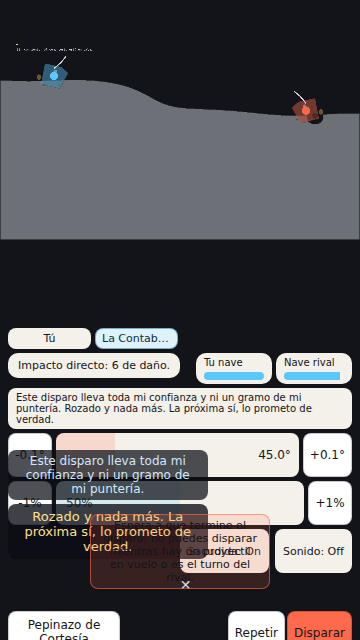
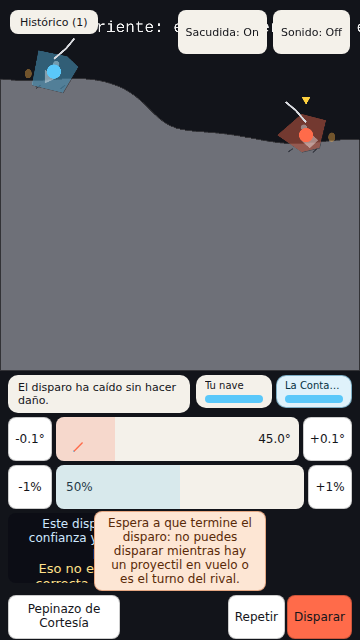
fix(hud-canales): broma y roce como hermanos flex reales, aviso fuera de su hueco (#96)
El gatekeeper midió que panel-bromas y panel-roce compartían el mismo
origen (x=8, y=513) y se solapaban un 57%/74%: BromaHUD se pintaba como
overlay position:absolute sobre TODA fila-avisos en vez de repartir el
ancho con RoceHUD. Convertirlos en hijos directos de un mismo flex-row
hace que el propio algoritmo de flexbox les dé cajas que nunca se tocan.

aviso-accion-imposible tapaba además un 66% de panel-bromas: crecía hacia
arriba desde fila-armas (bottom:100% sin hueco propio) e invadía el mismo
espacio. Ahora es una fila más de flujo normal entre fila-avisos y
fila-armas -- el coste es que fila-armas se desplaza mientras el aviso
está visible, preferible a tapar la broma (que es lo que pide hud-canales-1).

El guardia de hud-canales-4 comparaba solape solo contra una lista fija de
vecinos (toggles que ya son fixed y nunca pueden solaparse), por eso salía
en verde sin detectar nada de esto. Reescrito para comparar cada panel
visible contra TODOS los demás paneles visibles en el mismo instante.

diff --git a/src/juego/hud/ControlHUD.tsx b/src/juego/hud/ControlHUD.tsx
@@ -499,17 +499,23 @@ export function ControlHUD() {
         </button>
       </div>
 
-      {/* fila-avisos: hueco reservado de roce (izquierda) -- lay-4 pide el
-          hueco reservado literalmente: altura FIJA (no mínima) y con scroll
-          propio si una frase larga no cabe, para que quitar la broma nunca
-          mueva el resto de controles y para que un texto largo jamás empuje
-          ni solape la fila de abajo (lay-3). flexShrink:0 es el propio
-          arreglo de lay-3: sin él, esta fila era la ÚNICA con
-          overflowY:auto (mínimo automático 0 según CSS Flexbox §7.1.4), así
-          que el algoritmo de flex-shrink la comprimía a ella sola para
-          compensar el déficit de alto de la consola en 360x640. */}
-      <div style={{ position: "relative" }}>
+      {/* fila-avisos: roce (izquierda) y broma (derecha) como hermanos flex
+          REALES de la misma fila -- hud-canales (segunda corrección): la
+          versión anterior superponía panel-bromas como overlay
+          position:absolute sobre TODA esta fila (inset:"0 0 8px 0"), así que
+          su caja coincidía con la de panel-roce en vez de repartirse el
+          ancho con él (hallazgo del gatekeeper: mismo origen x=8,y=513,
+          57%/74% de solape). Con los dos como hijos de un flex-row, el
+          propio algoritmo de flexbox les da cajas que nunca se tocan --
+          roce (flex:"1 1 0") ocupa lo que broma deja libre, nunca al revés.
+          altura FIJA (no mínima) para que quitar la broma nunca mueva el
+          resto de controles (lay-4); flexShrink:0 es el propio arreglo de
+          lay-3: sin él, esta fila era la ÚNICA con overflowY:auto (mínimo
+          automático 0 según CSS Flexbox §7.1.4), así que el algoritmo de
+          flex-shrink la comprimía a ella sola para compensar el déficit de
+          alto de la consola en 360x640. */}
       <div
+        data-testid="fila-avisos"
         style={{
           display: "flex",
           flexDirection: "row",
@@ -521,32 +527,37 @@ export function ControlHUD() {
         }}
       >
         <RoceHUD />
-      </div>
-
-      {/* hud-canales-1: canal PASIVO de la broma -- superpuesto (no ocupa
-          hueco en el flujo, así que quitarla o que se desvanezca sola nunca
-          mueve control-angulo/potencia/armas, lay-4) y anclado por el borde
-          INFERIOR a este mismo contenedor. El propio panel (más abajo) lleva
-          ahora su tope de alto y su scroll interno -- ya no puede desbordar
-          este overlay de 70px hacia el control-angulo de arriba, que era el
-          otro modo de fallo real de recortar con line-clamp en vez de dar
-          alto o scroll al mensaje (hallazgo del gatekeeper). */}
-      <div
-        style={{
-          position: "absolute",
-          // hud-canales (cierre lay-3): 8px de borde inferior suman un
-          // colchón de 12px frente al gap de 4px del flex column, muy por
-          // encima del redondeo de subpíxel observado en repetición.
-          inset: "0 0 8px 0",
-          display: "flex",
-          flexDirection: "column",
-          justifyContent: "flex-end",
-          pointerEvents: "none",
-        }}
-      >
         <BromaHUD />
       </div>
-      </div>
+
+      {/* hud-canales (segunda corrección): el aviso ya no es un overlay
+          absolute anclado a "bottom:100%" de fila-armas -- creciendo hacia
+          arriba sin hueco propio invadía el mismo espacio que fila-avisos
+          (hallazgo del gatekeeper: 66% de panel-bromas tapado). Como fila
+          de flujo normal entre fila-avisos y fila-armas, el aviso empuja a
+          fila-armas hacia abajo cuando aparece en vez de superponerse a
+          nada -- el único coste es que fila-armas se desplaza mientras el
+          aviso está visible, preferible a tapar contenido (camino_critico
+          de hud-canales-1 es que la broma se pueda leer, no que fila-armas
+          quede inmóvil). */}
+      {avisoAccionImposible && (
+        <div
+          role="status"
+          data-testid="aviso-accion-imposible"
+          style={{
+            background: "var(--color-aviso-fondo)",
+            border: "1px solid var(--color-aviso-borde)",
+            borderRadius: 8,
+            padding: "4px 10px",
+            color: "var(--color-aviso-texto)",
+            font: "12px system-ui, sans-serif",
+            textAlign: "center",
+            pointerEvents: "none",
+          }}
+        >
+          {avisoAccionImposible}
+        </div>
+      )}
 
       {/* fila-armas: selector de arma y disparo/repetir -- el paso fino de
           ángulo/potencia vive ahora en sus propias filas, junto al control
@@ -560,7 +571,7 @@ export function ControlHUD() {
           los tres grupos, con el padding de botonEstilo recortado para
           liberar el ancho que el selector necesita, es lo que hace que el
           presupuesto cierre en una sola línea sin exprimir ni desbordar. */}
-      <div style={{ position: "relative", display: "flex", flexDirection: "row", justifyContent: "space-between", alignItems: "center", gap: 2 }}>
+      <div style={{ display: "flex", flexDirection: "row", justifyContent: "space-between", alignItems: "center", gap: 2 }}>
         <div style={{ position: "relative", flex: "0 0 auto" }}>
           <button
             type="button"
@@ -667,42 +678,6 @@ export function ControlHUD() {
             Disparar
           </button>
         </div>
-
-        {/* hud-canales (corrección): "bottom:4" sobre el contenedor ENTERO
-            (position:absolute, inset:0 en la raíz) ponía este aviso a la
-            misma altura que fila-armas, encima de "Pepinazo de Cortesía" y
-            "Repetir" (hallazgo del gatekeeper). Anclado ahora a bottom:"100%"
-            del propio envoltorio de fila-armas (que lleva position:relative,
-            ver arriba), crece hacia ARRIBA desde el borde superior de esa
-            fila y nunca puede superponerse a sus botones por construcción
-            geométrica, igual que panel-bromas nunca se superpone a
-            fila-armas por el mismo motivo. Identidad de color propia
-            (--color-aviso-*, fondo alfa 1) en vez de la rgba semitransparente
-            que daba 1,22:1 de contraste. */}
-        {avisoAccionImposible && (
-          <div
-            role="status"
-            data-testid="aviso-accion-imposible"
-            style={{
-              position: "absolute",
-              bottom: "100%",
-              marginBottom: 4,
-              left: "50%",
-              transform: "translateX(-50%)",
-              maxWidth: "92%",
-              background: "var(--color-aviso-fondo)",
-              border: "1px solid var(--color-aviso-borde)",
-              borderRadius: 8,
-              padding: "4px 10px",
-              color: "var(--color-aviso-texto)",
-              font: "12px system-ui, sans-serif",
-              textAlign: "center",
-              pointerEvents: "none",
-            }}
-          >
-            {avisoAccionImposible}
-          </div>
-        )}
       </div>
 
       {estado.ayudaVisible && (

diff --git a/tests/e2e/hud-canales.e2e.ts b/tests/e2e/hud-canales.e2e.ts
@@ -94,17 +94,19 @@ test("hud-canales-3: histórico de bromas vacío al empezar, dos entradas en ord
   await expect(page.getByTestId("historico-bromas-entrada-1")).toBeVisible();
 });
 
-// hud-canales (corrección): el axe se mueve al instante EN VUELO (como ya
-// hace hud-canales-5), no tras la resolución completa -- después de resolver,
-// aviso-accion-imposible ya no existe y el gatekeeper encontró justo ahí el
-// hueco de cobertura (su propio contraste nunca llegó a comprobarse). También
-// se compara la caja de panel-bromas/broma-descartar y de
-// aviso-accion-imposible contra sus VECINOS reales (toggle-sacudida/
-// toggle-silenciado, ahora fixed arriba a la derecha, y los botones de
-// fila-armas), no solo contra sí mismos -- ese solape entre elementos
-// distintos era precisamente lo que el hallazgo anterior señalaba y la
-// comprobación previa no podía detectar.
-test("hud-canales-4: sin violaciones de target-size/color-contrast y ningún panel se superpone a los controles vecinos", async ({
+// hud-canales (tercera corrección): el axe se mueve al instante EN VUELO
+// (como ya hace hud-canales-5), no tras la resolución completa -- después de
+// resolver, aviso-accion-imposible ya no existe y el gatekeeper encontró
+// justo ahí el hueco de cobertura (su propio contraste nunca llegó a
+// comprobarse). El guardia de solape ya NO compara contra una lista fija de
+// vecinos -- esa lista fue precisamente el hueco que dejó pasar el solape
+// real de la iteración anterior (broma contra roce, broma contra aviso):
+// ninguno de los dos estaba en "vecinosFilaArmas" ni en
+// "toggle-sacudida"/"toggle-silenciado". Ahora se recoge la caja de TODOS
+// los paneles visibles en el instante (incluido broma-descartar como hijo
+// de panel-bromas, que sí puede solaparse con su propio padre a propósito)
+// y se comparan por parejas entre sí.
+test("hud-canales-4: sin violaciones de target-size/color-contrast y ningún panel visible se superpone a otro", async ({
   page,
 }) => {
   test.setTimeout(60000);
@@ -126,11 +128,33 @@ test("hud-canales-4: sin violaciones de target-size/color-contrast y ningún pan
     );
   }
 
-  const cajaAviso = (await page.getByTestId("aviso-accion-imposible").boundingBox())!;
-  const vecinosFilaArmas = ["selector-arma-abrir", "repetir-disparo", "disparar"];
-  for (const testId of vecinosFilaArmas) {
-    const cajaVecino = (await page.getByTestId(testId).boundingBox())!;
-    expect(sinSolape(cajaAviso, cajaVecino)).toBe(true);
+  // panel-bromas/broma-descartar quedan fuera adrede: el aspa vive DENTRO
+  // de su propio panel (hud-canales-4 ya lo exige así, no es el solape que
+  // se busca aquí). Todo lo demás es independiente entre sí y no debería
+  // compartir ni un píxel.
+  const candidatos = [
+    "aviso-accion-imposible",
+    "panel-bromas",
+    "panel-roce",
+    "selector-arma-abrir",
+    "repetir-disparo",
+    "disparar",
+    "toggle-sacudida",
+    "toggle-silenciado",
+    "historico-bromas-toggle",
+  ];
+
+  const cajas: Array<{ testId: string; caja: { x: number; y: number; width: number; height: number } }> = [];
+  for (const testId of candidatos) {
+    const locator = page.getByTestId(testId);
+    if (!(await locator.isVisible().catch(() => false))) continue;
+    cajas.push({ testId, caja: (await locator.boundingBox())! });
+  }
+
+  for (let i = 0; i < cajas.length; i++) {
+    for (let j = i + 1; j < cajas.length; j++) {
+      expect(sinSolape(cajas[i].caja, cajas[j].caja), `${cajas[i].testId} vs ${cajas[j].testId}`).toBe(true);
+    }
   }
 
   const panel = page.getByTestId("panel-bromas");
@@ -141,11 +165,6 @@ test("hud-canales-4: sin violaciones de target-size/color-contrast y ningún pan
     expect(cajaDescartar.y).toBeGreaterThanOrEqual(cajaPanel.y - 1);
     expect(cajaDescartar.x + cajaDescartar.width).toBeLessThanOrEqual(cajaPanel.x + cajaPanel.width + 1);
     expect(cajaDescartar.y + cajaDescartar.height).toBeLessThanOrEqual(cajaPanel.y + cajaPanel.height + 1);
-
-    for (const testId of ["toggle-sacudida", "toggle-silenciado"]) {
-      const cajaToggle = (await page.getByTestId(testId).boundingBox())!;
-      expect(sinSolape(cajaPanel, cajaToggle)).toBe(true);
-    }
   }
 });
 
